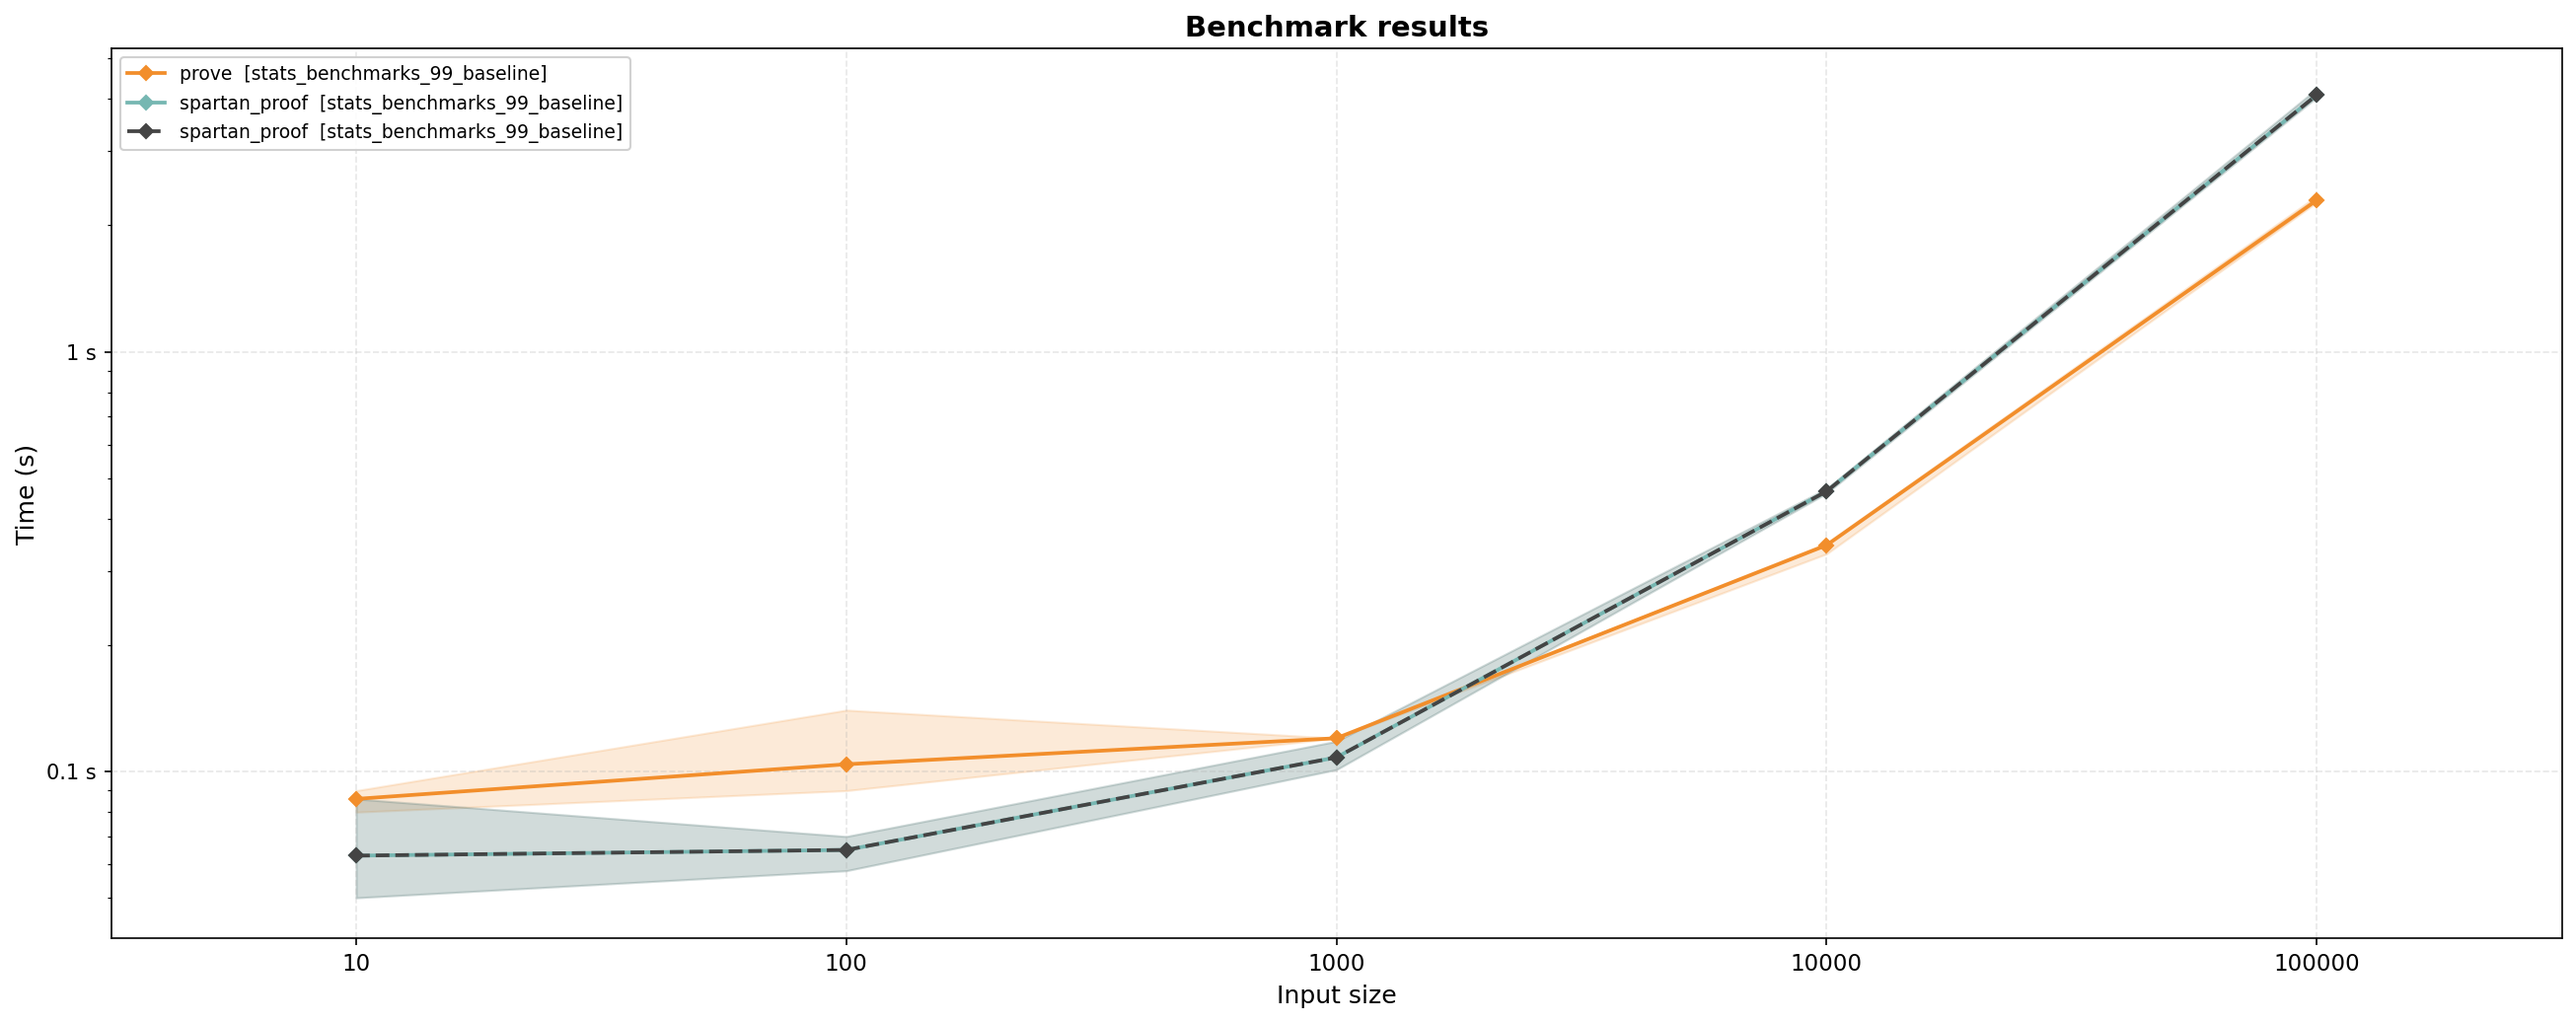
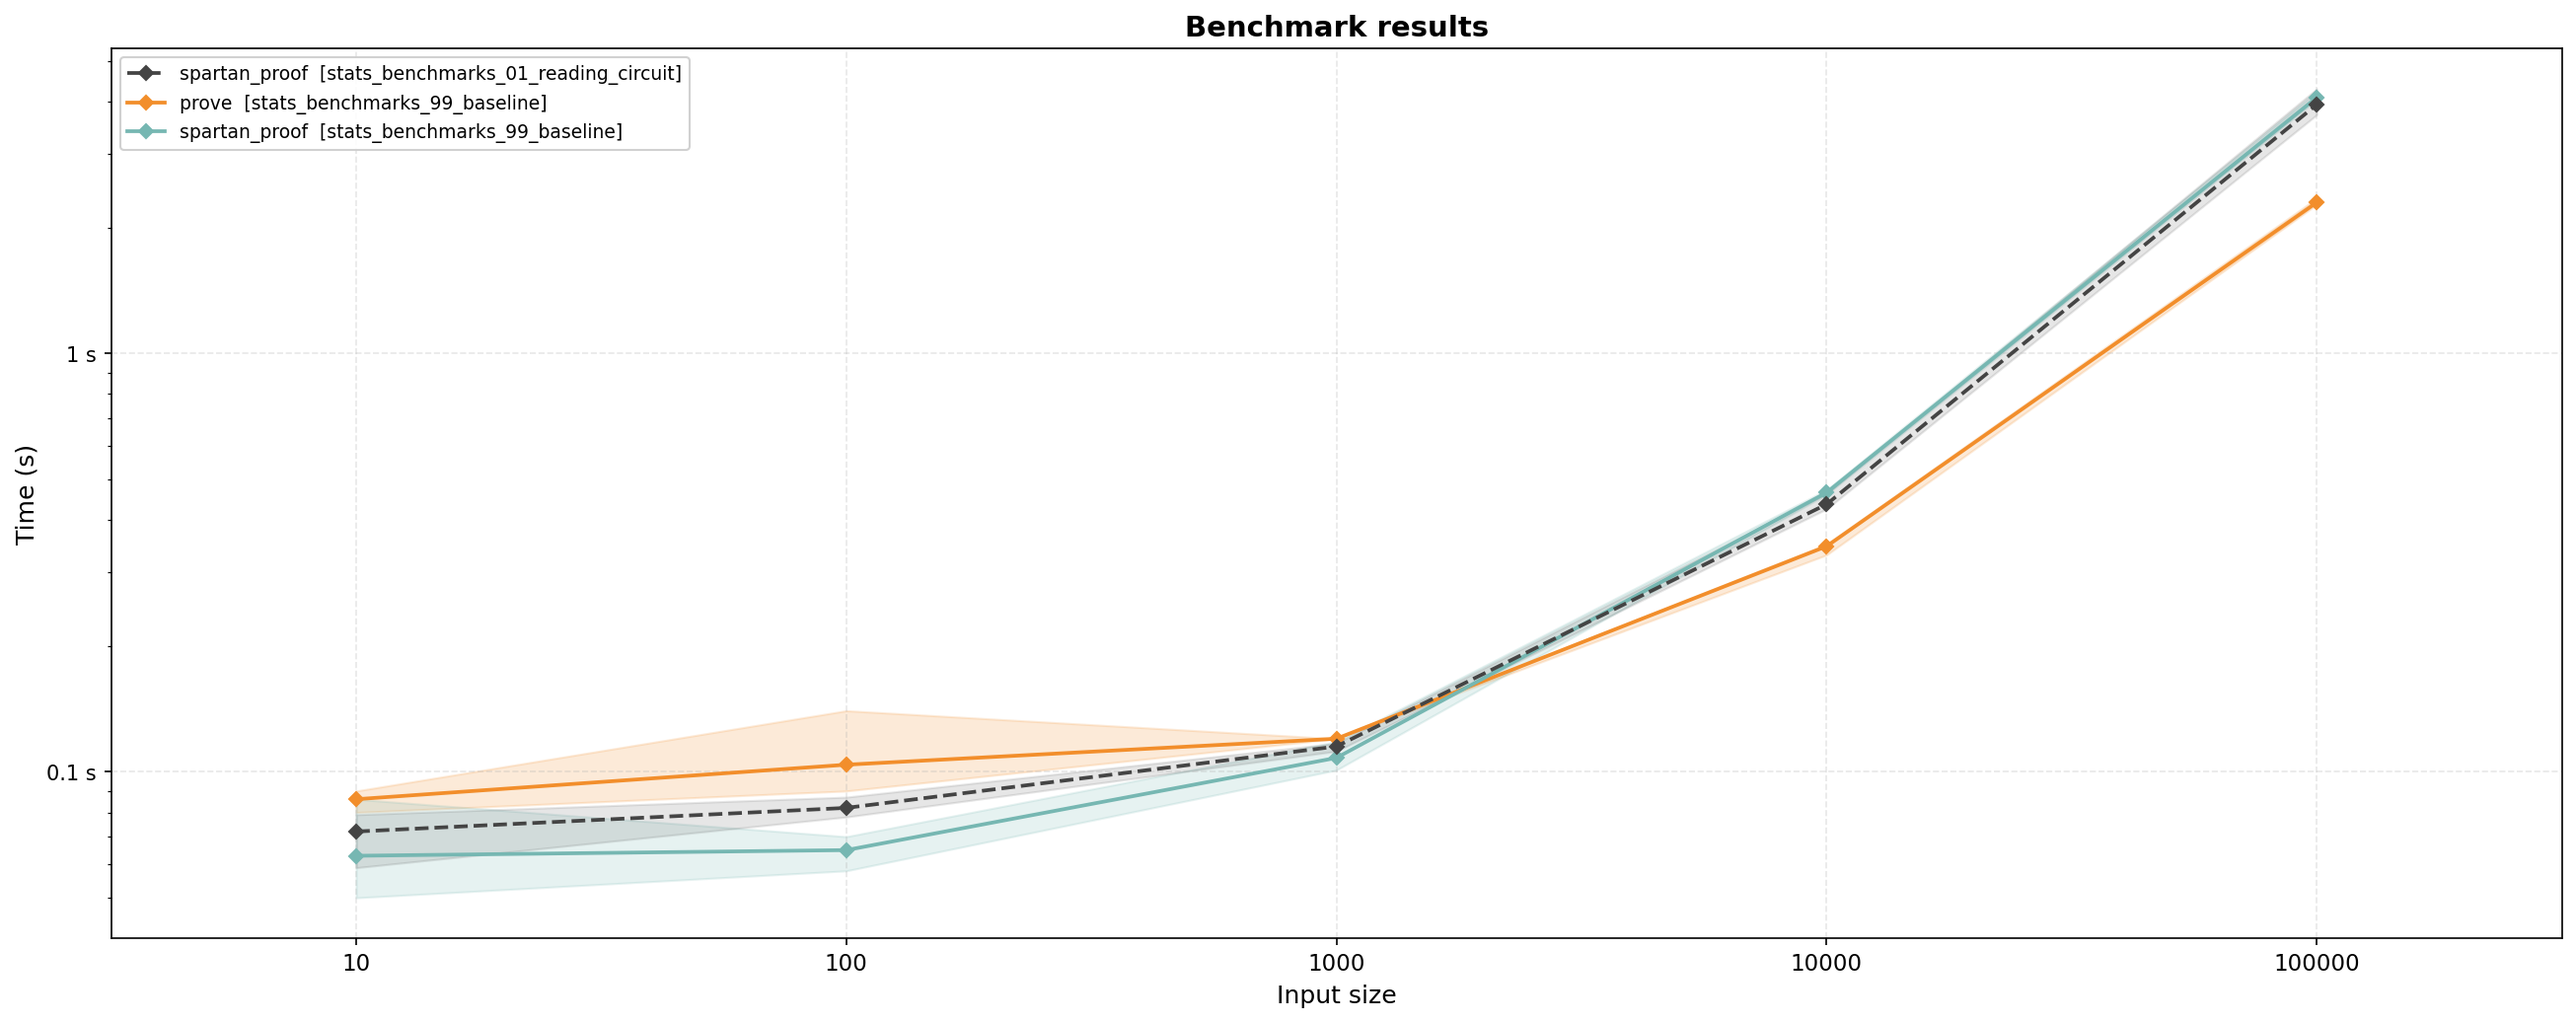
speedup reading of circuit

diff --git a/spartan-backend/src/noir/scalar_conversion.rs b/spartan-backend/src/noir/scalar_conversion.rs
@@ -2,6 +2,26 @@ use acir::{AcirField, FieldElement};
 use algebra_utils::hex_to_big;
 use ff::PrimeField;
 use num_bigint::BigUint;
+use std::sync::OnceLock;
+
+fn acir_modulus() -> &'static BigUint {
+    static MOD: OnceLock<BigUint> = OnceLock::new();
+    MOD.get_or_init(|| FieldElement::modulus())
+}
+
+fn half_acir_modulus() -> &'static BigUint {
+    static HALF: OnceLock<BigUint> = OnceLock::new();
+    HALF.get_or_init(|| FieldElement::modulus() / BigUint::from(2u64))
+}
+
+fn biguint_to_scalar<Scalar: PrimeField>(n: &BigUint) -> Scalar {
+    let bytes_le = n.to_bytes_le();
+    let mut repr = Scalar::Repr::default();
+    let out = repr.as_mut();
+    let len = out.len().min(bytes_le.len());
+    out[..len].copy_from_slice(&bytes_le[..len]);
+    Option::from(Scalar::from_repr(repr)).expect("value out of range for scalar field")
+}
 
 /// Convert an ACIR **coefficient/constant** into a Spartan scalar, preserving
 /// signed semantics.
@@ -12,18 +32,14 @@ use num_bigint::BigUint;
 /// `-(p_acir - c)`. This is required because the ACIR field modulus and the
 /// Spartan scalar field modulus are different primes.
 pub(crate) fn to_spartan_scalar<Scalar: PrimeField>(field_element: &FieldElement) -> Scalar {
-    let acir_modulus = FieldElement::modulus();
-    let half_modulus = &acir_modulus / BigUint::from(2u64);
-
     let value = hex_to_big(&field_element.to_hex());
 
-    if value > half_modulus {
+    if value > *half_acir_modulus() {
         // This represents a negative number: -(acir_modulus - value)
-        let abs_value = &acir_modulus - &value;
-        let positive = Scalar::from_str_vartime(&abs_value.to_str_radix(10)).unwrap();
-        positive.neg()
+        let abs_value = acir_modulus() - &value;
+        biguint_to_scalar::<Scalar>(&abs_value).neg()
     } else {
-        Scalar::from_str_vartime(&value.to_str_radix(10)).unwrap()
+        biguint_to_scalar::<Scalar>(&value)
     }
 }
 

diff --git a/README.md b/README.md
@@ -56,24 +56,24 @@ Times in seconds. Rows: ASSERTS; sub-rows per cell: BB prove / Spartan proof / S
 | ASRT \ INP |    10 |   100 |  1000 | 10000 | 100000 |
 +------------+-------+-------+-------+-------+--------+
 | 10         | 0.08s |   n/a |   n/a |   n/a |    n/a |
-|            | 0.05s |   n/a |   n/a |   n/a |    n/a |
-|            | 0.04s |   n/a |   n/a |   n/a |    n/a |
+|            | 0.06s |   n/a |   n/a |   n/a |    n/a |
+|            | 0.03s |   n/a |   n/a |   n/a |    n/a |
 +------------+-------+-------+-------+-------+--------+
 | 100        |   n/a | 0.09s |   n/a |   n/a |    n/a |
-|            |   n/a | 0.06s |   n/a |   n/a |    n/a |
+|            |   n/a | 0.08s |   n/a |   n/a |    n/a |
 |            |   n/a | 0.04s |   n/a |   n/a |    n/a |
 +------------+-------+-------+-------+-------+--------+
 | 1000       |   n/a |   n/a | 0.12s |   n/a |    n/a |
-|            |   n/a |   n/a | 0.10s |   n/a |    n/a |
-|            |   n/a |   n/a | 0.06s |   n/a |    n/a |
+|            |   n/a |   n/a | 0.11s |   n/a |    n/a |
+|            |   n/a |   n/a | 0.05s |   n/a |    n/a |
 +------------+-------+-------+-------+-------+--------+
-| 10000      |   n/a |   n/a |   n/a | 0.33s |    n/a |
-|            |   n/a |   n/a |   n/a | 0.46s |    n/a |
-|            |   n/a |   n/a |   n/a | 0.26s |    n/a |
+| 10000      |   n/a |   n/a |   n/a | 0.35s |    n/a |
+|            |   n/a |   n/a |   n/a | 0.42s |    n/a |
+|            |   n/a |   n/a |   n/a | 0.24s |    n/a |
 +------------+-------+-------+-------+-------+--------+
-| 100000     |   n/a |   n/a |   n/a |   n/a |  2.27s |
-|            |   n/a |   n/a |   n/a |   n/a |  4.04s |
-|            |   n/a |   n/a |   n/a |   n/a |  2.12s |
+| 100000     |   n/a |   n/a |   n/a |   n/a |  2.26s |
+|            |   n/a |   n/a |   n/a |   n/a |  3.72s |
+|            |   n/a |   n/a |   n/a |   n/a |  1.97s |
 +------------+-------+-------+-------+-------+--------+
 ```
 <!-- BENCHMARK_TABLE_END -->
